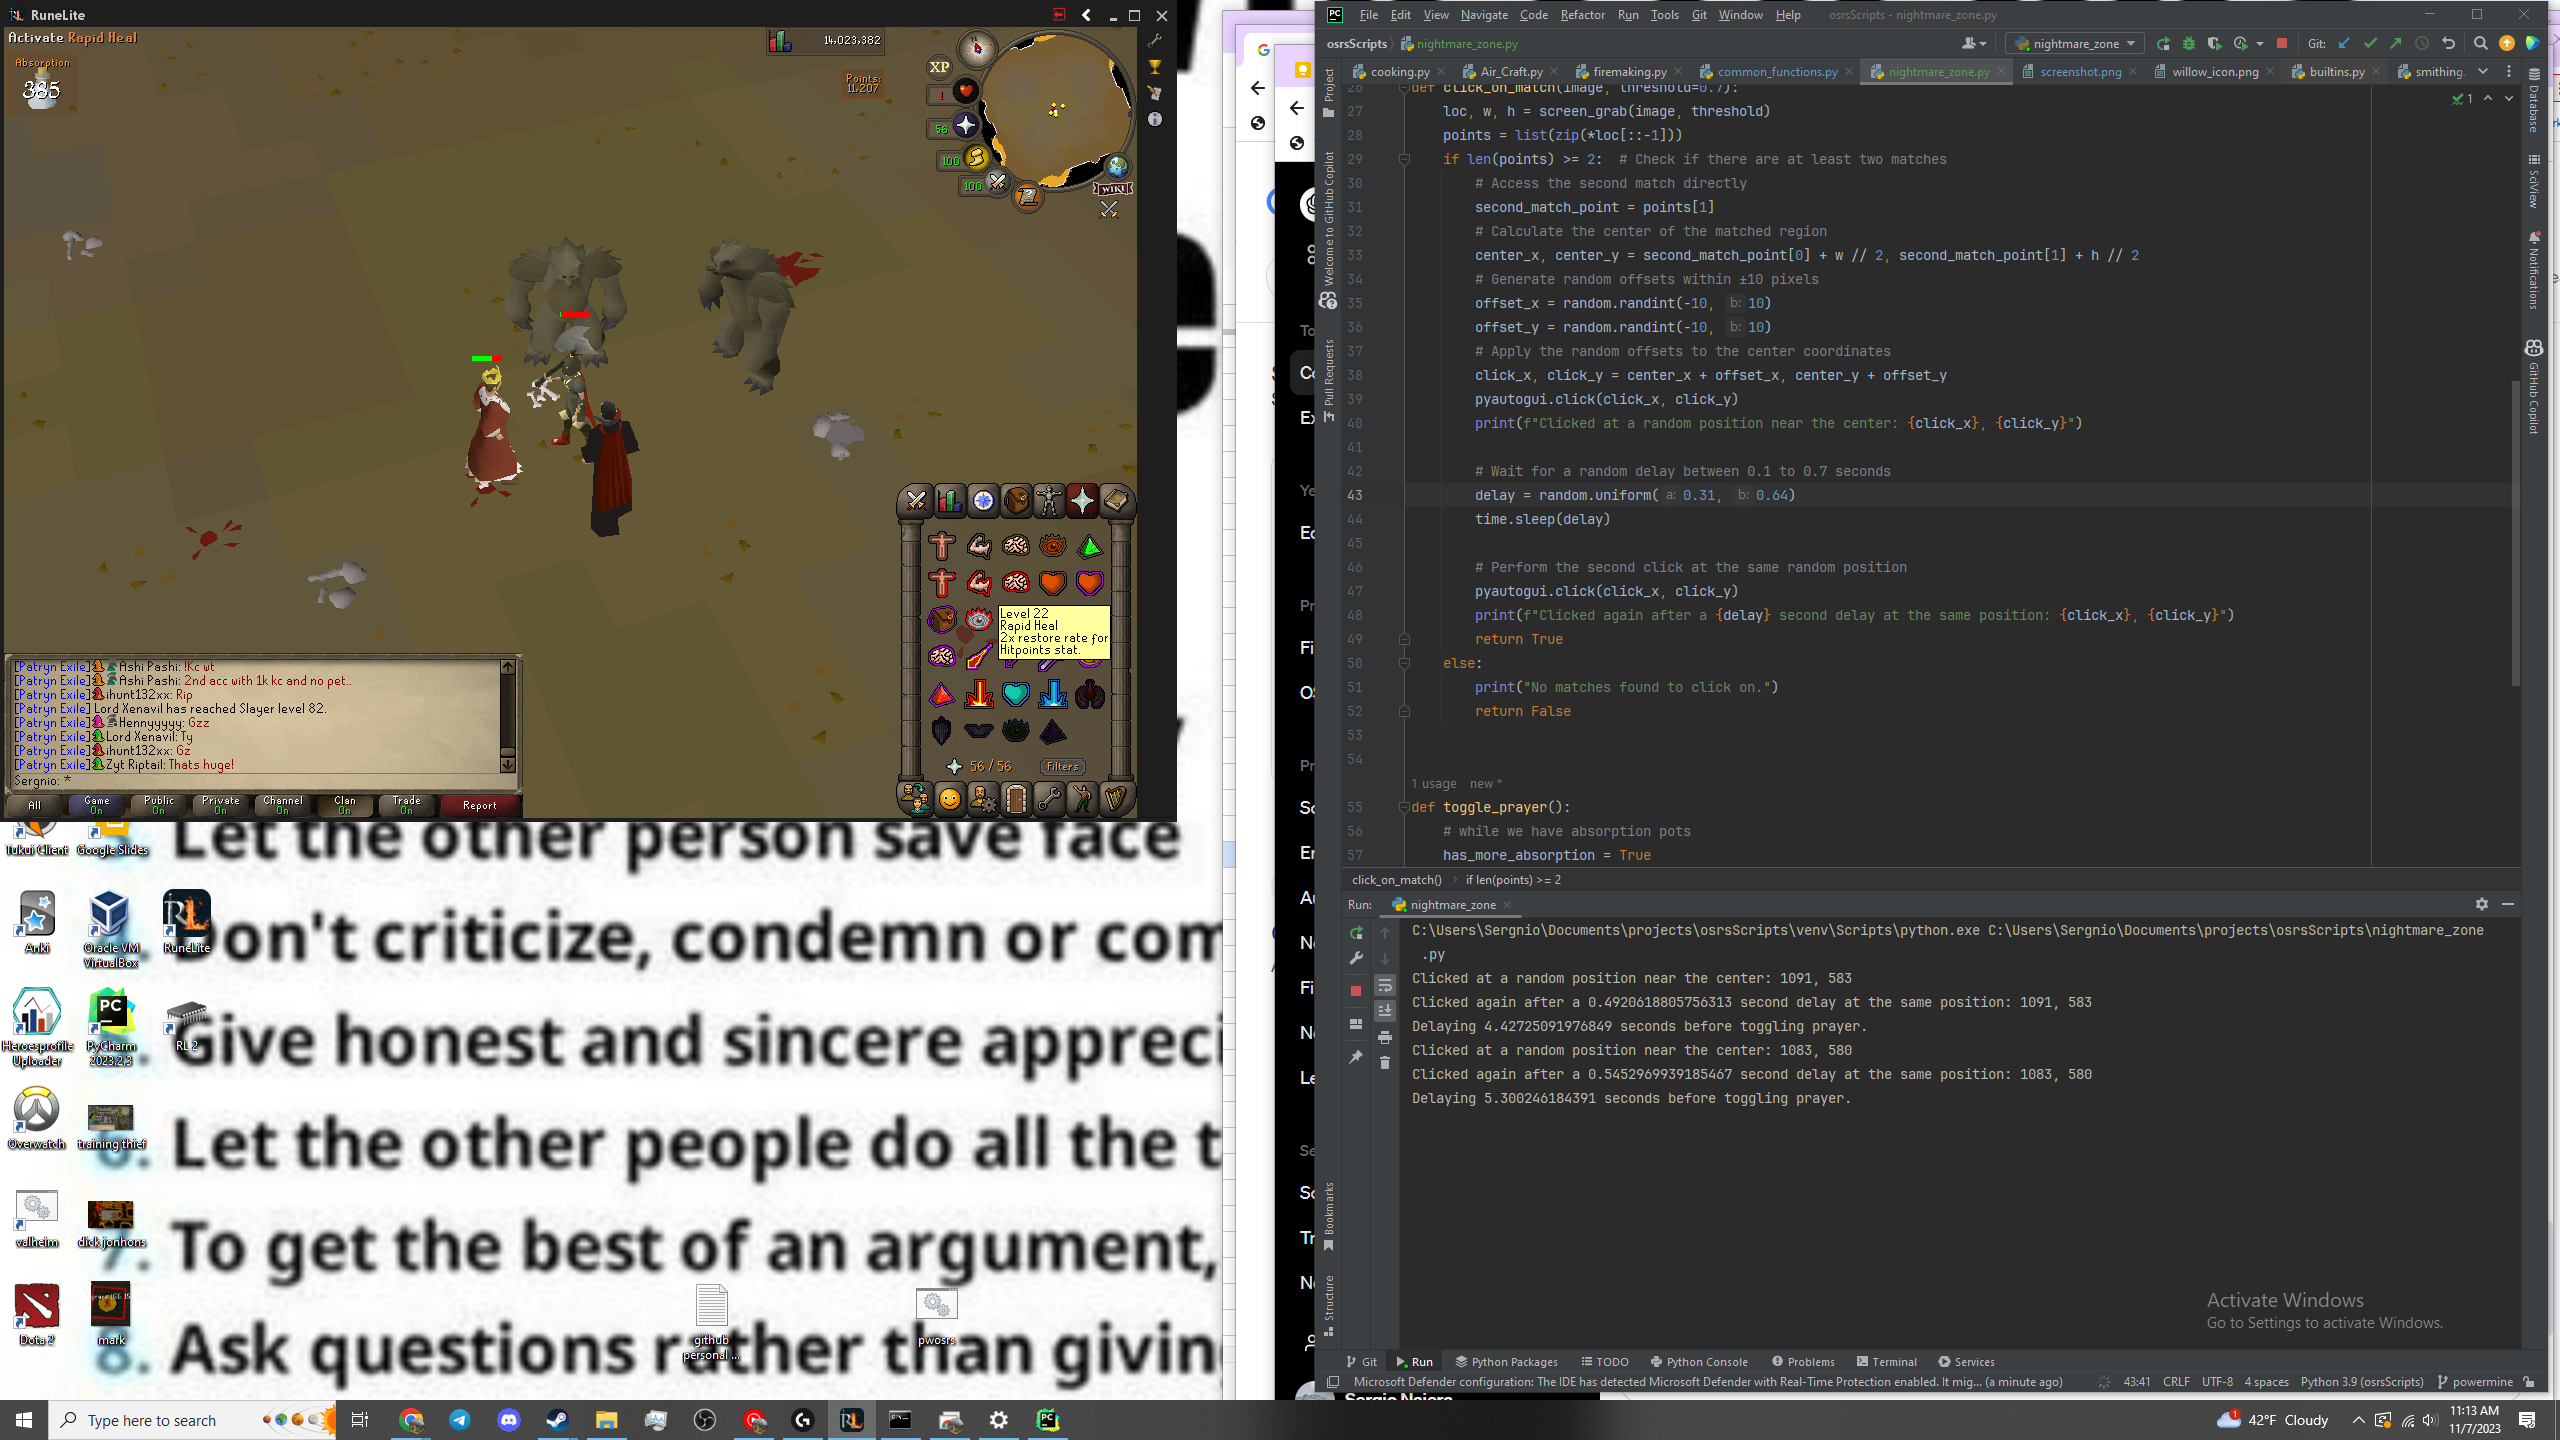
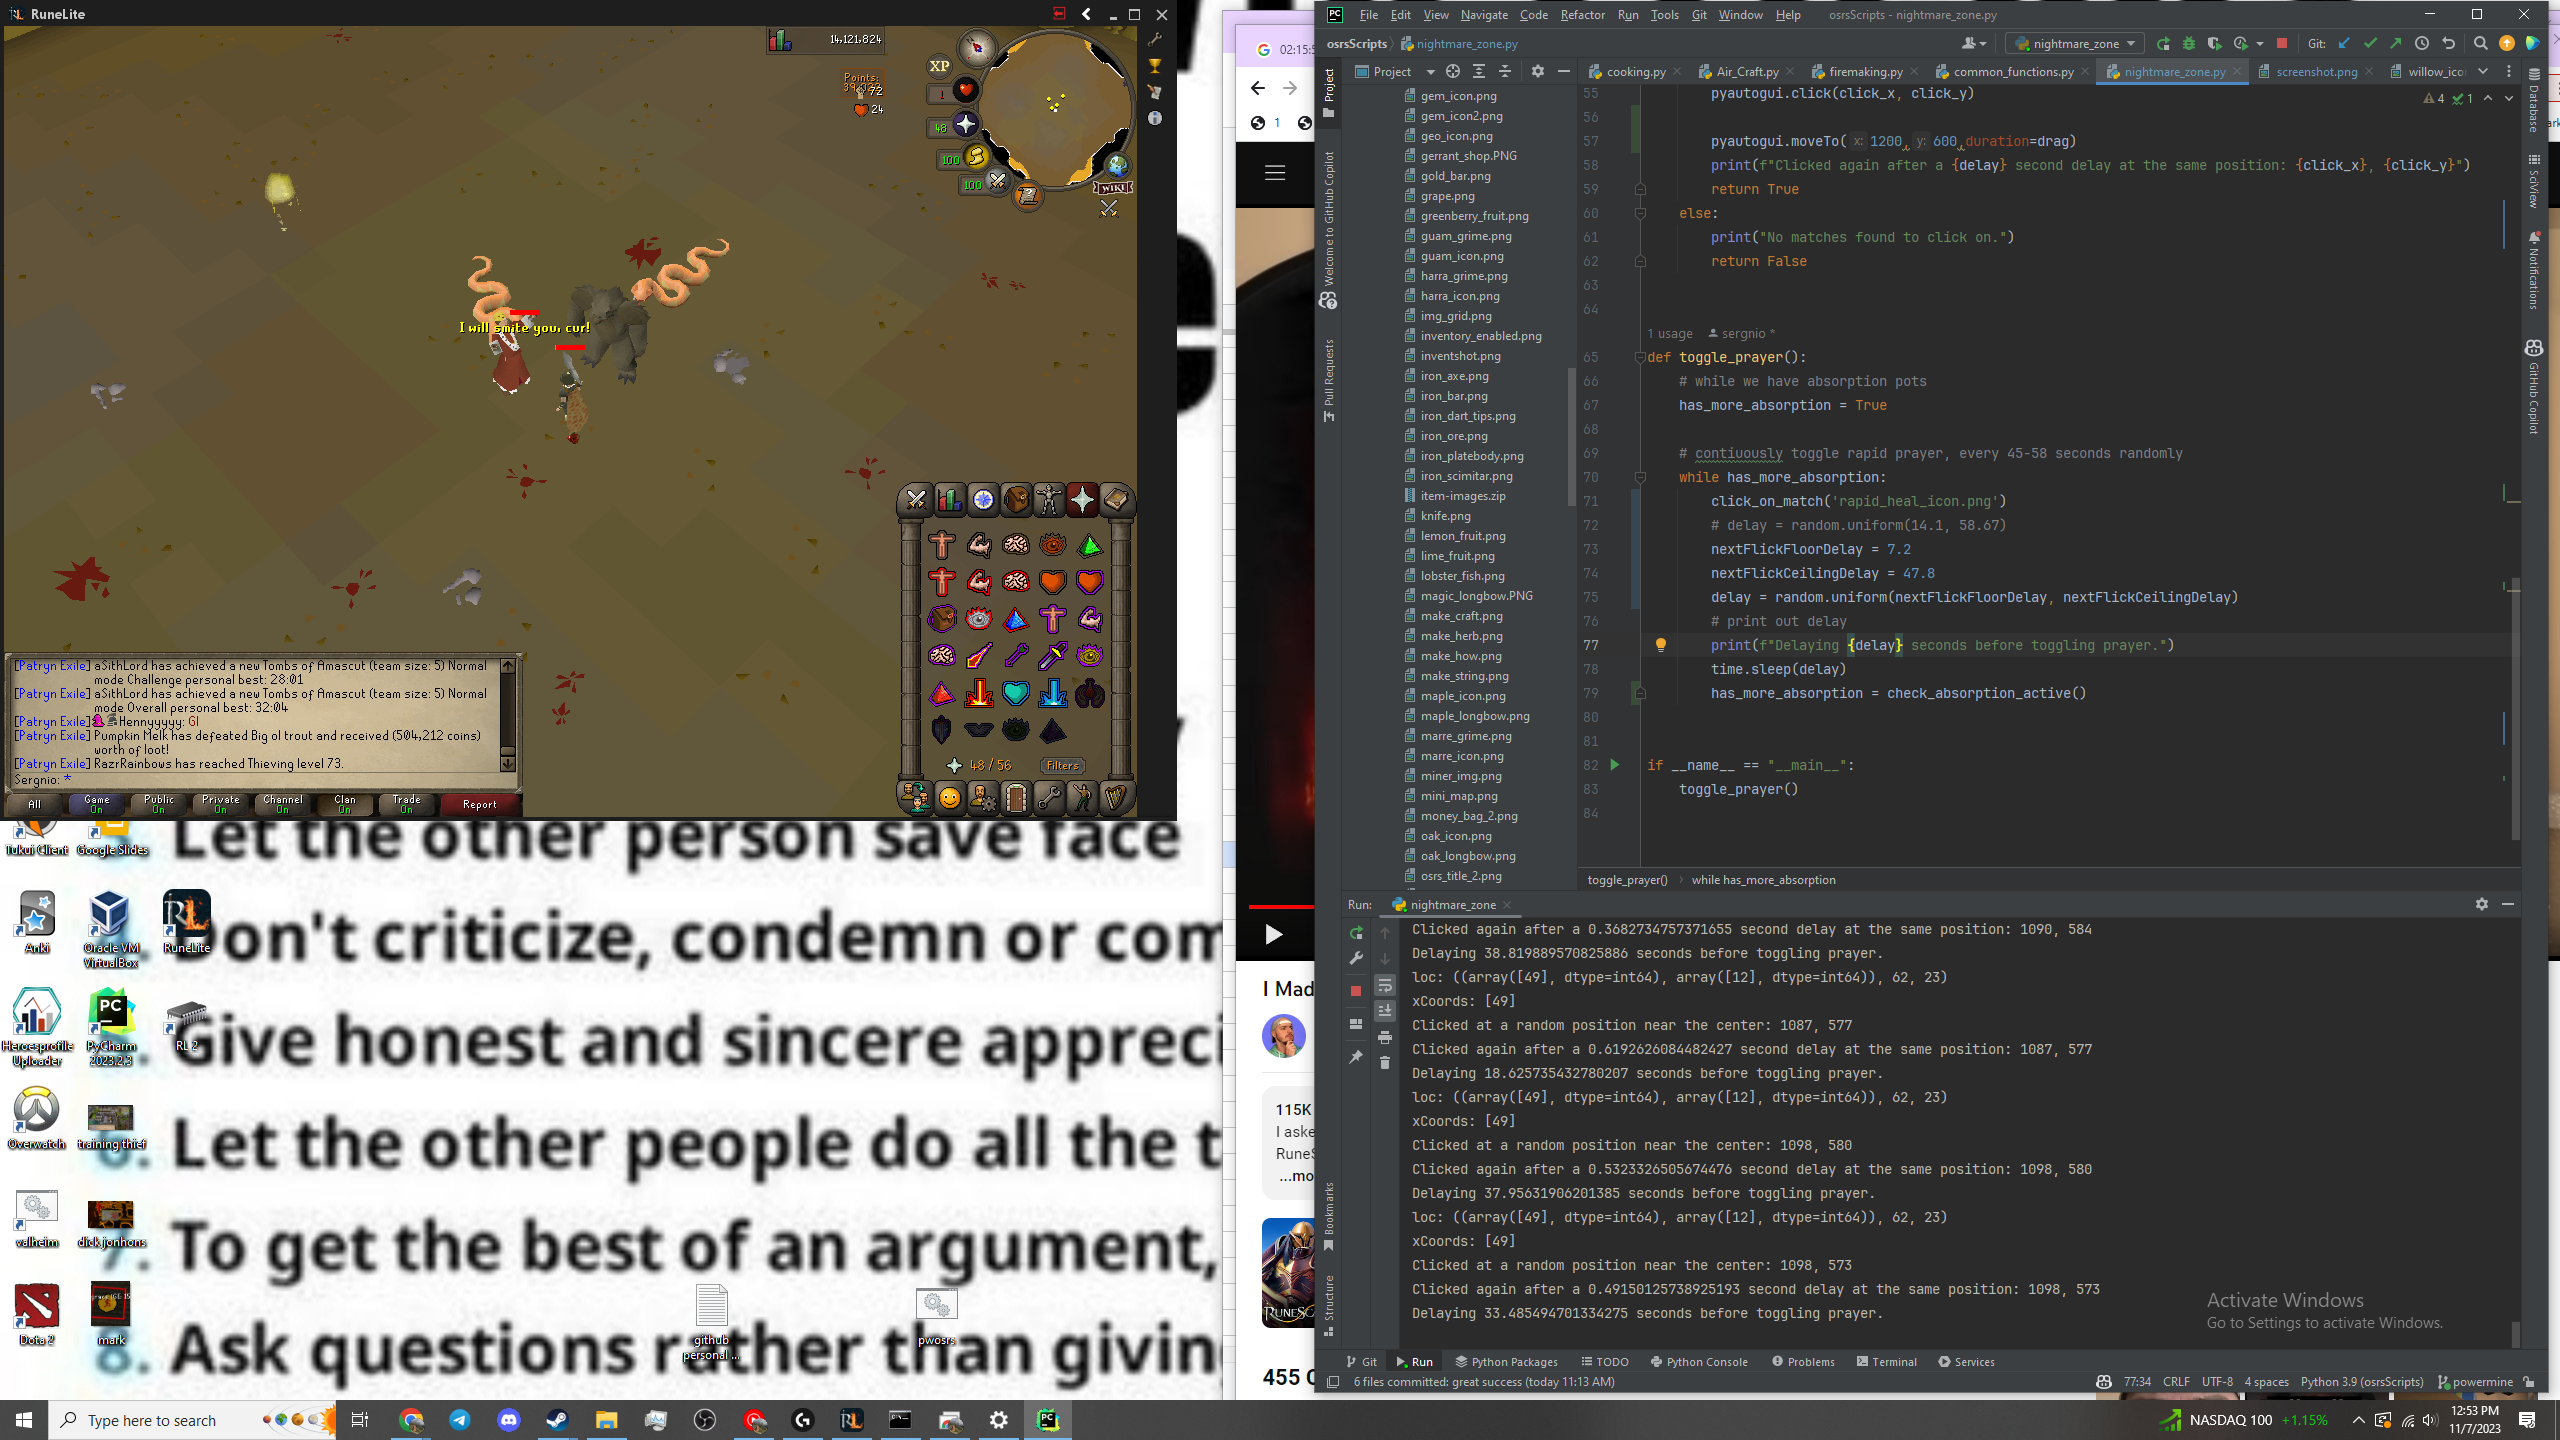
this works great

diff --git a/nightmare_zone.py b/nightmare_zone.py
@@ -8,8 +8,13 @@ import random
 from utils.common_functions import screen_Image
 
 
-def check_absorption():
-    return click_on_match('rapid_heal_icon.png')
+def check_absorption_active():
+    loc = screen_grab('absorption_pot_icon.png')
+    print(f'loc: {loc}')
+    # if these exist, it means there's a match
+    xCoords = loc[0][0]
+    print(f'xCoords: {xCoords}')
+    return len(xCoords) > 0
 
 
 def screen_grab(image, threshold=0.7):
@@ -36,6 +41,9 @@ def click_on_match(image, threshold=0.7):
         offset_y = random.randint(-10, 10)
         # Apply the random offsets to the center coordinates
         click_x, click_y = center_x + offset_x, center_y + offset_y
+        drag = random.uniform(.1, .3)
+
+        pyautogui.moveTo(click_x,click_y,duration=drag)
         pyautogui.click(click_x, click_y)
         print(f"Clicked at a random position near the center: {click_x}, {click_y}")
 
@@ -45,6 +53,8 @@ def click_on_match(image, threshold=0.7):
 
         # Perform the second click at the same random position
         pyautogui.click(click_x, click_y)
+
+        pyautogui.moveTo(1200,600,duration=drag)
         print(f"Clicked again after a {delay} second delay at the same position: {click_x}, {click_y}")
         return True
     else:
@@ -58,11 +68,15 @@ def toggle_prayer():
 
     # contiuously toggle rapid prayer, every 45-58 seconds randomly
     while has_more_absorption:
-        has_more_absorption = check_absorption()
-        delay = random.uniform(11, 58)
+        click_on_match('rapid_heal_icon.png')
+        # delay = random.uniform(14.1, 58.67)
+        nextFlickFloorDelay = 7.2
+        nextFlickCeilingDelay = 47.8
+        delay = random.uniform(nextFlickFloorDelay, nextFlickCeilingDelay)
         # print out delay
         print(f"Delaying {delay} seconds before toggling prayer.")
         time.sleep(delay)
+        has_more_absorption = check_absorption_active()
 
 
 if __name__ == "__main__":
